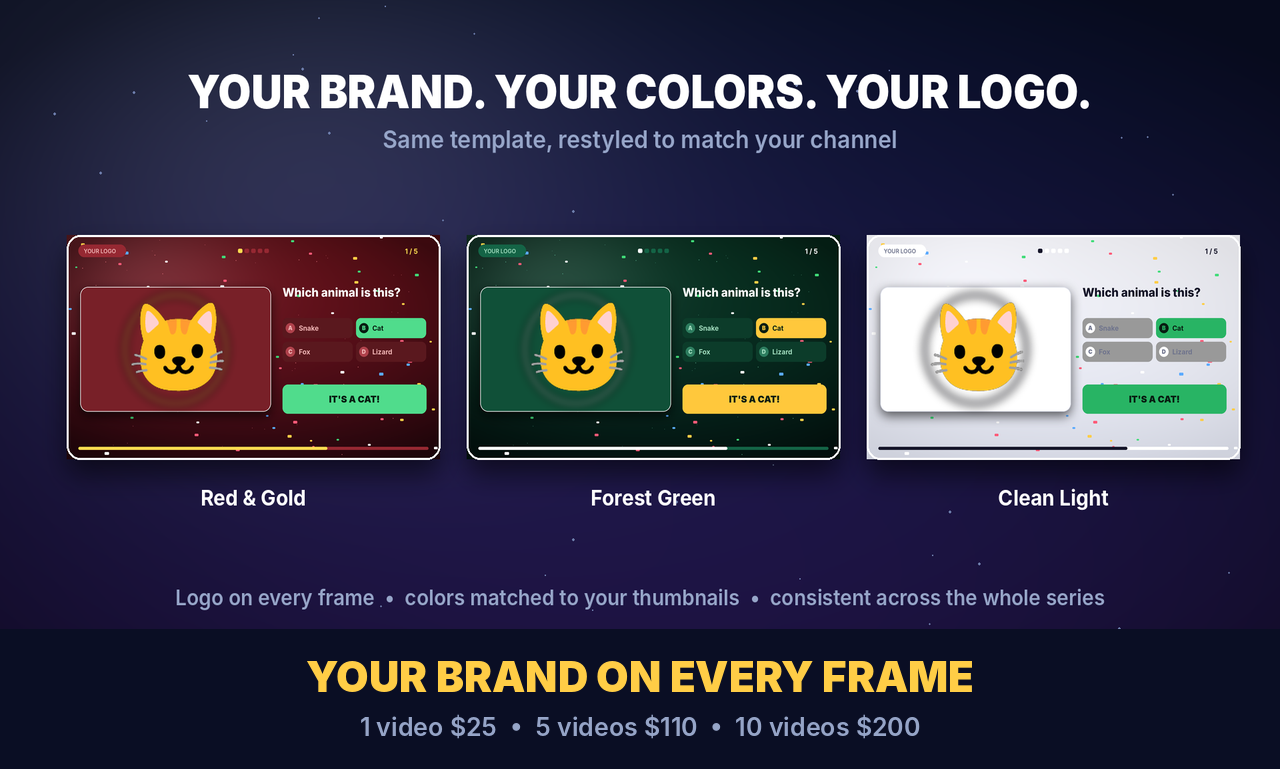
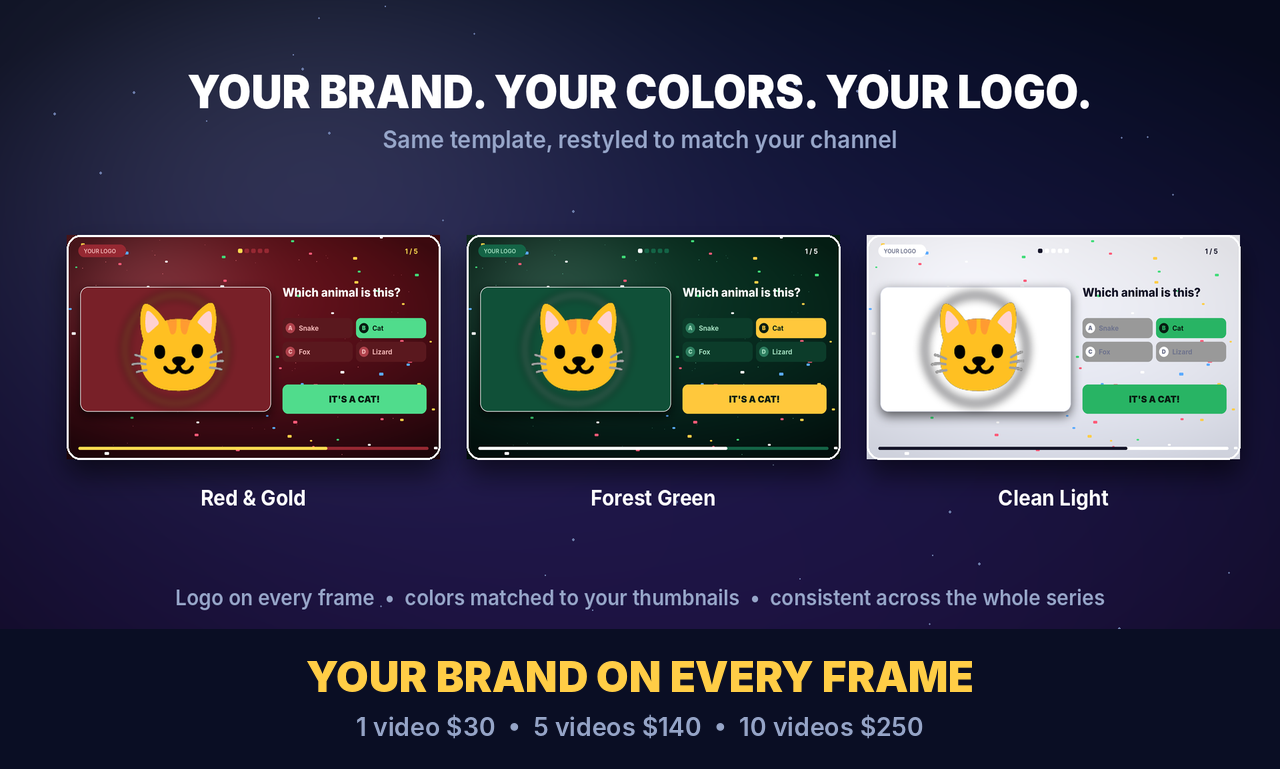
Cập nhật giá gig Quiz 30/140/250 trên ảnh gig và nội dung gig
Claude-Session: https://claude.ai/code/session_01M5UQwgqus9eiCMpLJNMXBB

Changed region(s): [[0.2812, 0.9363, 0.7188, 0.9675]]

diff --git a/production/fiverr/gig-1-quiz/01-NOI-DUNG-GIG.md b/production/fiverr/gig-1-quiz/01-NOI-DUNG-GIG.md
@@ -32,7 +32,7 @@ quiz video, trivia video, youtube quiz, guess the animal, faceless youtube
 | Mô tả ngắn (≤100 ký tự) | 1 quiz video, 10 questions, up to 3 min, AI voice, music, countdown timer | 5 quiz videos, 10 questions each, your branding, thumbnails included | 10 quiz videos, 10–15 questions, branding, thumbnails, titles & descriptions |
 | Giao (ngày) | 2 | 5 | 8 |
 | Sửa (revisions) | 2 | 3 | Unlimited |
-| Giá (USD) | **25** | **110** | **200** |
+| Giá (USD) | **30** | **140** | **250** |
 | Nội dung tick | Script & questions · AI voiceover · Background music · Countdown timer · 1080p | + Channel branding (logo, colors) · Thumbnail for each video · Source questions sheet | + 15 questions option · Titles, descriptions, tags · Priority delivery |
 
 *Giá Basic 25 $ là giá "mồi" để lấy 5 đơn đầu; sau 10 đánh giá nâng lên 35–40 $.*
